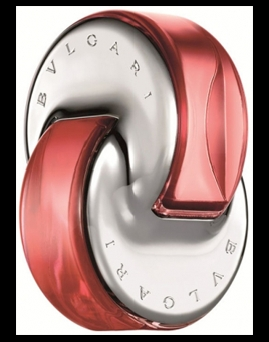
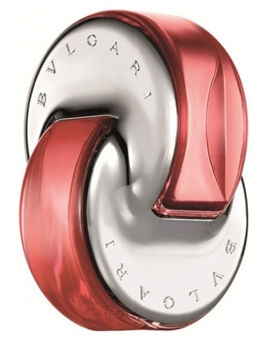
PNG format black background fix, but..... small shadow problem :dancer:

Changed region(s): [[0.0, 0.0, 1.0, 1.0]]

diff --git a/application/controllers/AdminController.php b/application/controllers/AdminController.php
@@ -83,7 +83,35 @@ class AdminController extends MyController {
                         $thumb_height = ($thumb_width/$width) * $height;
                         $thumb_create = imagecreatetruecolor($thumb_width,$thumb_height);
                         
+                        switch ($file_ext)
+                            {
+                                case "png":
+                                    // integer representation of the color black (rgb: 0,0,0)
+                                    $background = imagecolorallocate($thumb_create, 255, 255, 255
+                                        );
+                                    // removing the black from the placeholder
+                                    imagecolortransparent($thumb_create, $background);
+
+                                    // turning off alpha blending (to ensure alpha channel information 
+                                    // is preserved, rather than removed (blending with the rest of the 
+                                    // image in the form of black))
+                                    imagealphablending($thumb_create, false);
+
+                                    // turning on alpha channel information saving (to ensure the full range 
+                                    // of transparency is preserved)
+                                    imagesavealpha($thumb_create, true);
+
+                                    break;
+                                case "gif":
+                                    // integer representation of the color black (rgb: 0,0,0)
+                                    $background = imagecolorallocate($thumb_create, 0, 0, 0);
+                                    // removing the black from the placeholder
+                                    imagecolortransparent($thumb_create, $background);
+
+                                    break;
+                            }
                         
+                                
                         switch($file_ext){
                                 case 'jpg':
                                         $source = imagecreatefromjpeg($upload_image);
@@ -106,15 +134,6 @@ class AdminController extends MyController {
                                         imagejpeg($thumb_create,$thumbnail,100);
                                         break;
                                 case 'png':
-                                        $targ_w_thumb = $targ_w_thumb = 200;
-//                                        $dst_r = ImageCreateTrueColor($targ_w_thumb, $targ_h_thumb);
-                                        imagealphablending($thumb_create, false);
-                                        imagesavealpha($thumb_create, true);
-                                        imagefill($thumb_create, 0, 0, imagecolorallocatealpha($thumb_create, 0, 0, 0, 127));
-                                        imagecopyresampled($thumb_create, $this->image, 0, 0, $targ_x, $targ_y, $targ_w_thumb, $targ_h_thumb, $targ_w, $targ_h);
-//                                        imagepng($thumb_create,$thumbnail, 9);    
-                                    
-                                    
                                         imagepng($thumb_create,$thumbnail,100);
                                         break;
                                 case 'gif':
@@ -262,4 +281,11 @@ class AdminController extends MyController {
         }
     }
     
+    public function loadProducts() {
+        if($this->input->is_ajax_request()) {
+            $products = $this->mainModel->getProducts($this->input->post());
+            
+             echo json_encode($products);
+        }
+    }
 }
